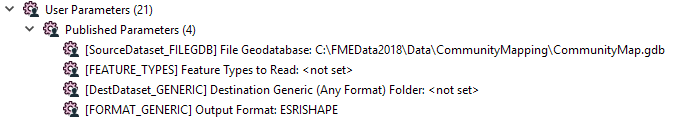
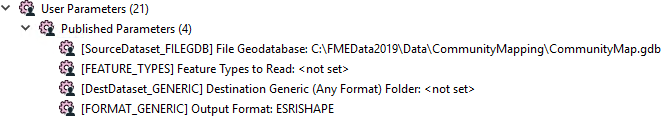
2019 Chapter 3 Exercise 2

diff --git a/DesktopAdvanced3AdvancedRW/3.Exercise2.md b/DesktopAdvanced3AdvancedRW/3.Exercise2.md
@@ -40,7 +40,7 @@
 </table>
 
 
-As resident FME expert you are often asked to translate data (particularly the community map) between formats. You realize that it would be way simpler if you created a workspace to do this - regardless of format - and let the end-users carry out the translation themselves. In the future, this would make an excellent use for an FME Server Data Download service, but for now, we'll let the users simply run the workspace in FME Workbench.
+As resident FME expert you are often asked to translate data (particularly the community map) between formats. You realize that it would be much simpler if you created a workspace to do this - regardless of format - and let the end-users carry out the translation themselves. In the future, this would make an excellent use for an FME Server Data Download service, but for now, we'll let the users simply run the workspace in FME Workbench.
  
 
 <br>**1) Start Workbench**
@@ -165,7 +165,7 @@ In the dialog that opens set the following:
 
 </table>
 
-For the configuration field, click the browse button to open a new dialog. In that dialog, select Import &gt; Writer Formats. Select a handful of the most common formats like Esri Shapefile, AutoCAD DWG, GML, and MapInfo TAB; then click OK.
+For the configuration field, click the browse button to open a new dialog. In that dialog, select Import &gt; Writer Formats. Select a handful of the most common spatial formats such as Esri Shapefile, AutoCAD DWG, GML, and MapInfo TAB; then click OK.
 
 Then click OK twice more until all the dialogs are closed.
 
@@ -182,7 +182,7 @@ Now when the workspace is run, the choice of output format will be among these f
 ![](./Images/Img3.215.Ex2.OutputFormats.png)
 
 
-<br>**6) Fanout on Format Attribute**
+<br>**6) Set Fanout using a Format Attribute**
 <br>The other, final, task we can do here is to output the features to their original table. To do this we need to know where they came from, and that is obtained from a format attribute called *fme&#95;feature&#95;type*.
 
 Inspect the properties for the writer feature type. Set a fanout by choosing *fme&#95;feature&#95;type* as the attribute supplying the feature type name.
@@ -193,7 +193,7 @@ Inspect the properties for the writer feature type. Set a fanout by choosing *fm
 <br>**7) Save and Run Workspace**
 <br>Save the workspace and then run it with the prompt option set. When prompted, select some source tables to read (include at least the GarbageSchedule plus one other).
 
-Then for Destination Generic (Any Format) Folder, we will create a zipped folder to contain all of our files. Set the location of an output folder then at the end type:
+Then for Destination Generic (Any Format) Folder, we will create a zipped folder to contain all of our files. Set the location of an output folder (such as C:\FMEData2019\Output\Training) then at the end type:
 
 <pre>
     \CommunityMapping.zip
@@ -201,11 +201,13 @@ Then for Destination Generic (Any Format) Folder, we will create a zipped folder
 
 This will create a zipped file called CommunityMapping.
 
-Finally, set Esri Shapefile as the format to write. Click OK to run the translation
+Finally, set Esri Shapefile as the format to write:
 
-Examine the output folder. A zipped folder has been created which contains all the selected tables that have been written back to Shapefile format:
+![](./Images/Img3.217.Ex2.UserPrompts.png)
 
-![](./Images/Img3.217.Ex2.OutputDatasets.png)
+Click the Run button to run the translation. Examine the output folder. A zipped folder has been created which contains all the selected tables that have been written back to Shapefile format:
+
+![](./Images/Img3.218.Ex2.OutputDatasets.png)
 
 Now you have a solution that almost anyone will be able to open and run for themselves. Also, if you published the workspace to FME Server it would automatically create a web page that matched the different user parameters.
 
@@ -222,8 +224,8 @@ Now you have a solution that almost anyone will be able to open and run for them
 <tr>
 <td style="border: 1px solid darkorange">
 <span style="font-family:serif; font-style:italic; font-size:larger">
-Did you notice that FME handled the different geometry types and output the files with the geometry as part of the name? It’s a Shape format thing. FME can never – and will never – write more than one geometry type to the same Shapefile .shp file.
-<br><br>The one drawback is that each output Shapefile has <strong>all</strong> of the attributes of <strong>all</strong> of the source tables. To avoid that you would need to use a dynamic translation, as we shall see shortly.
+Did you notice that FME handled the different geometry types and output the files with the geometry as part of the name? It’s a Shapefile format thing. FME can never – and will never – write more than one geometry type to the same Shapefile .shp file.
+<br><br>The one drawback with the output is that each Shapefile has <strong>all</strong> of the attributes of <strong>all</strong> of the source tables. To avoid that you would need to use a dynamic translation, as we shall see shortly...
 </span>
 </td>
 </tr>
